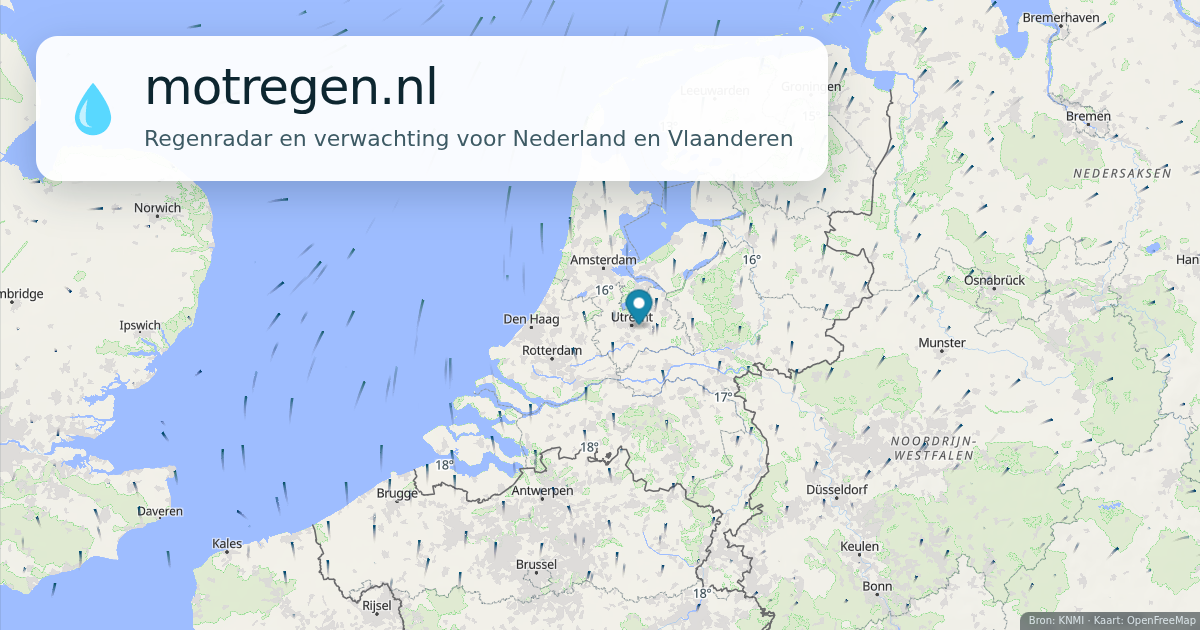
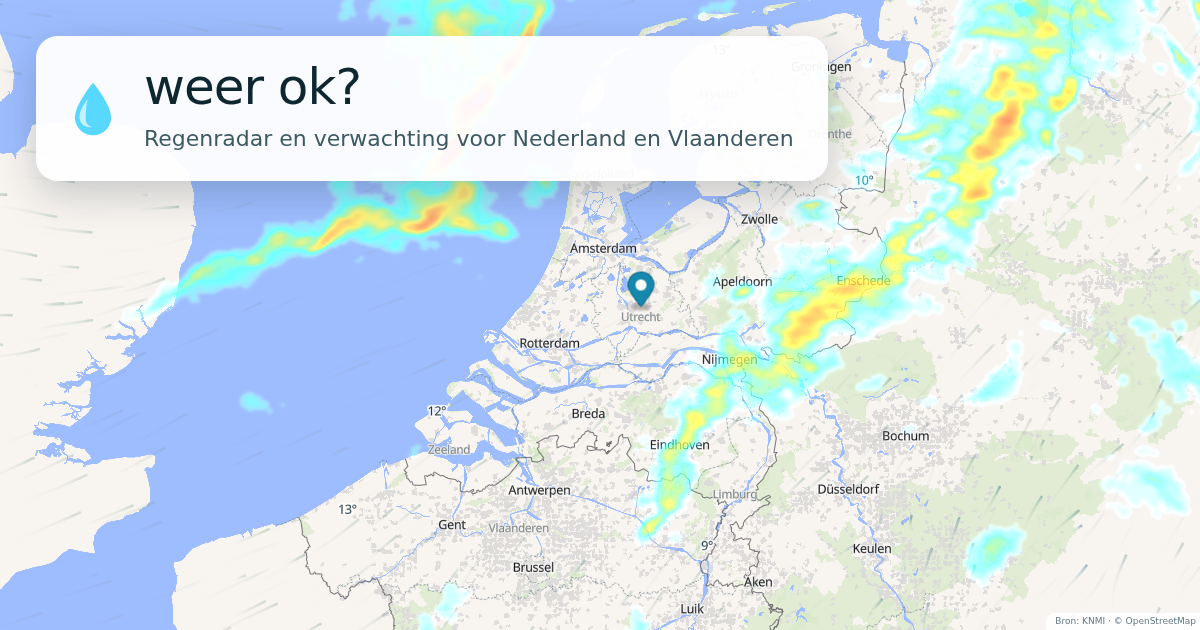
U74: OG-kaart met 'weer ok?', screenshot-rig en beelden

diff --git a/.dev/tracks/u74-weer-ok-branding/rig/shots.ts b/.dev/tracks/u74-weer-ok-branding/rig/shots.ts
@@ -1,0 +1,55 @@
+/// <reference lib="dom" />
+// Screenshots van splash, kaartbeeld en About voor de PO-blik (U74).
+// Gebruik (vanuit web/, rig gekopieerd naar tmp/u74/): pnpm exec tsx tmp/u74/shots.ts [url]
+// De PNG's uit tmp/u74/out/ gaan als WebP (kwaliteit 92) naar beelden/.
+import { chromium } from '@playwright/test'
+
+const url = process.argv[2] ?? 'http://127.0.0.1:4320/'
+const outputDirectory = new URL('./out/', import.meta.url).pathname
+const viewports = [
+  { label: '1280', width: 1280, height: 800, mobile: false },
+  { label: '390', width: 390, height: 844, mobile: true },
+]
+const themes = [
+  { label: 'dag', colorScheme: 'light' as const },
+  { label: 'nacht', colorScheme: 'dark' as const },
+]
+
+const browser = await chromium.launch({ args: ['--enable-webgl', '--ignore-gpu-blocklist', '--use-angle=swiftshader'] })
+for (const viewport of viewports) {
+  for (const theme of themes) {
+    const context = await browser.newContext({
+      viewport: { width: viewport.width, height: viewport.height },
+      colorScheme: theme.colorScheme,
+      deviceScaleFactor: viewport.mobile ? 2 : 1,
+      isMobile: viewport.mobile,
+      hasTouch: viewport.mobile,
+    })
+    const page = await context.newPage()
+    // De app start standaard in Licht, los van het systeemthema; nacht gaat via de opgeslagen keuze.
+    await page.addInitScript((choice) => localStorage.setItem('motregen-theme', choice), theme.colorScheme)
+    const name = (subject: string) => `${outputDirectory}${subject}-${theme.label}-${viewport.label}.png`
+
+    // Splash: de data vasthouden zodat de kaart niet "ready" wordt terwijl we kijken.
+    let releaseData: () => void = () => {}
+    const dataHeld = new Promise<void>((resolve) => { releaseData = resolve })
+    await page.route('**/data/**', async (route) => { await dataHeld; await route.continue() })
+    await page.goto(url)
+    await page.locator('.map-splash-mark strong').waitFor({ state: 'visible' })
+    await page.waitForTimeout(800)
+    await page.screenshot({ path: name('splash') })
+    console.log(`${name('splash')} title=${JSON.stringify(await page.title())}`)
+
+    releaseData()
+    await page.locator('.map-splash.ready').waitFor({ state: 'attached', timeout: 90_000 })
+    await page.waitForTimeout(4_000)
+    await page.screenshot({ path: name('kaart') })
+
+    await page.getByRole('button', { name: 'Over weer ok? en instellingen' }).click()
+    await page.getByRole('dialog', { name: 'weer ok?' }).waitFor({ state: 'visible' })
+    await page.waitForTimeout(600)
+    await page.screenshot({ path: name('about') })
+    await context.close()
+  }
+}
+await browser.close()

diff --git a/web/scripts/og-image.ts b/web/scripts/og-image.ts
@@ -29,5 +29,10 @@ await page.evaluate((svg) => {
 }, droplet)
 // Kaart laten herschalen naar de volle breedte en de windsporen laten opbouwen.
 await page.waitForTimeout(5_000)
+// De westrand van het radardomein valt op deze breedte net in beeld (de kaart zit daar tegen
+// zijn grens, slepen helpt niet); iets inzoomen rond Utrecht haalt hem eruit.
+await page.mouse.move(640, 300)
+await page.mouse.wheel(0, -120)
+await page.waitForTimeout(4_000)
 await page.screenshot({ path: new URL('../public/og-image.png', import.meta.url).pathname })
 await browser.close()
